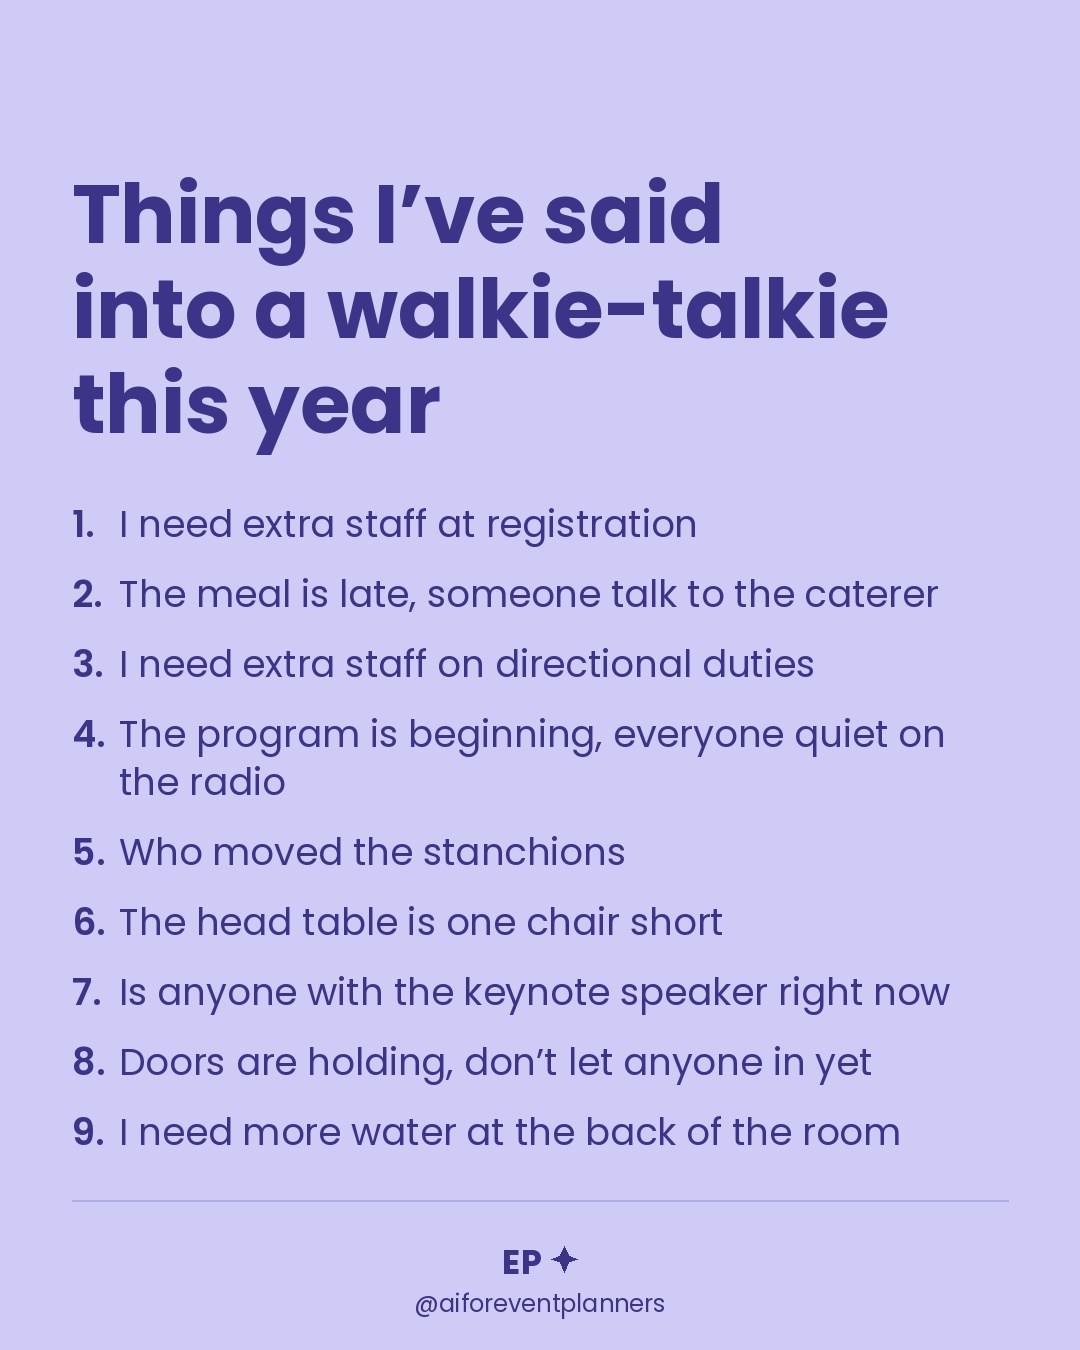
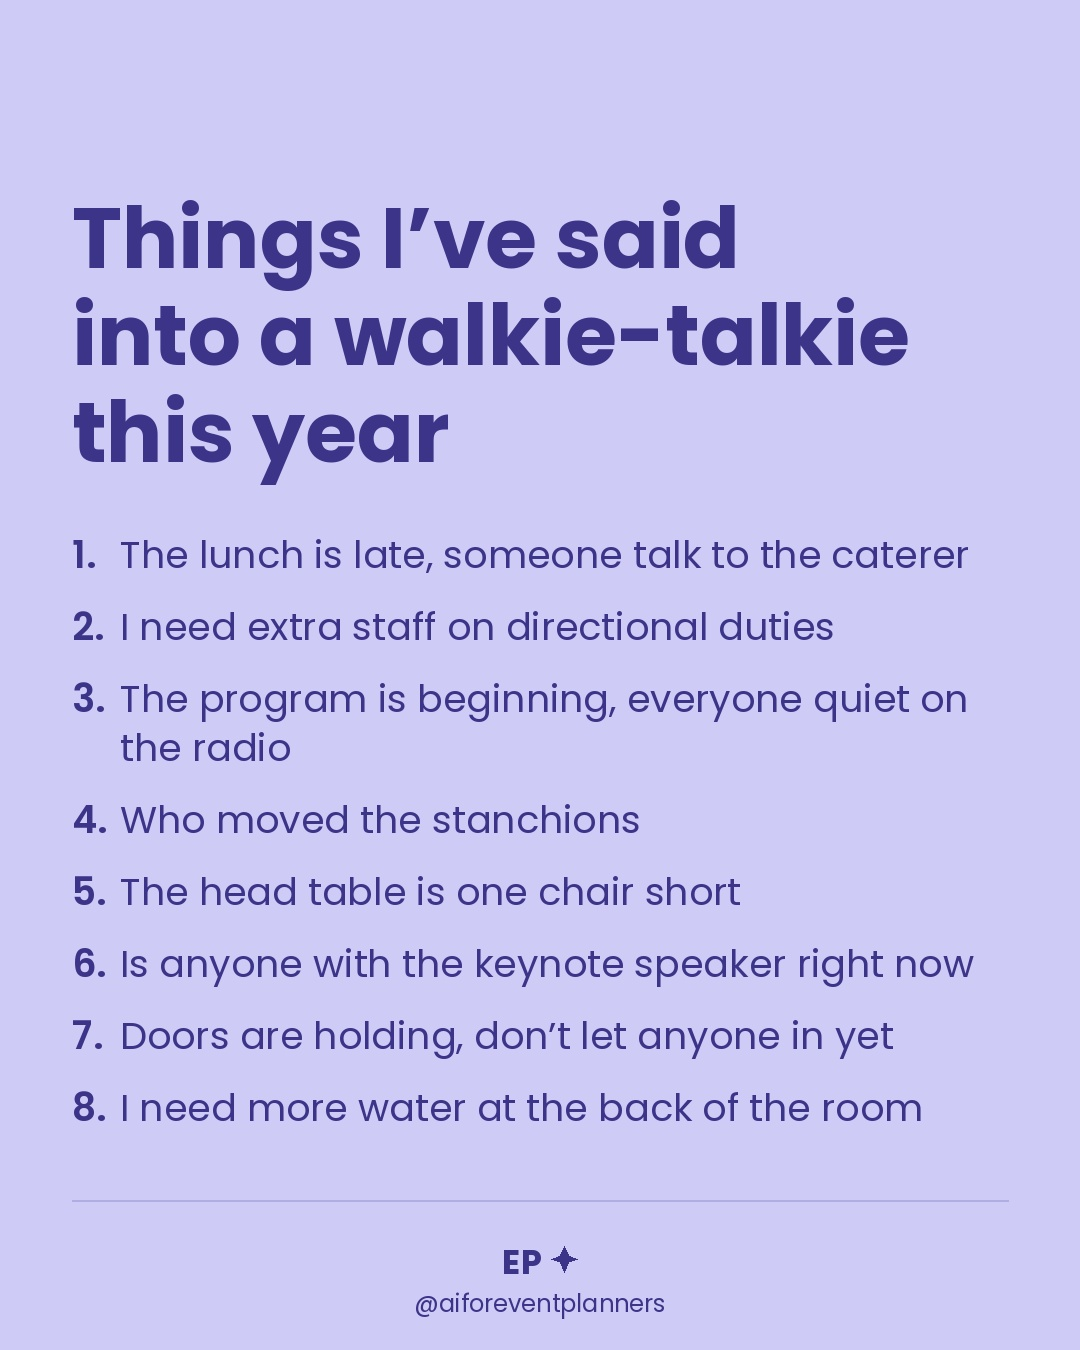
Sat 7 image: eight lines, her two edits
She cut her own registration line against the directional-duties one ("1 and
3 are too similar cut 1") and changed "the meal" to "the lunch". Both are her
calls, so the wording on the image is still hers throughout.

Eight lines rather than nine lets the title sit at 84px on both sizes; the
list now ends at y=1130 on the 1350 and y=1310 on the 1920, both inside the
same windows as before.

Claude-Session: https://claude.ai/code/session_01HKX4LcxS3og4W8QFWqNVPj

Changed region(s): [[0.0611, 0.1244, 0.8861, 0.8711]]

diff --git a/posts/2026-11-07-walkie-talkie/make_post.py b/posts/2026-11-07-walkie-talkie/make_post.py
@@ -6,9 +6,12 @@ as a numbered list.
 
 THE LINES ARE HERS. Four came from her verbatim on Nov 5; five more she picked
 from a list drafted here and approved ("1 - 4 and 6"), which makes them hers
-too. Nothing on this image was written and then assumed. Her own four keep her
-wording exactly — only the spelling of "registration" and "beginning" is
-fixed, because an overlay is set type rather than a radio call.
+too. Nothing on this image was written and then assumed. Her own lines keep
+her wording exactly, with two changes she made herself: the spelling of
+"beginning", and "the meal" to "the lunch".
+
+EIGHT, NOT NINE. She cut her own registration line against the directional
+one — "1 and 3 are too similar cut 1" — so the less obvious of the two stayed.
 
 No names, no venues, no clients, no employer: role and room only.
 
@@ -46,9 +49,11 @@ HANDLE = "@aiforeventplanners"
 TITLE = "Things I’ve said\ninto a walkie-talkie\nthis year"
 
 # Hers first, in the order she sent them, then the five she approved.
+# "I need extra staff at registration" was hers too and came out on her call:
+# "1 and 3 are too similar cut 1". Line 3 is the directional-duties one, which
+# makes the same point in a less obvious place, so it is the one that stayed.
 LINES = [
-    "I need extra staff at registration",
-    "The meal is late, someone talk to the caterer",
+    "The lunch is late, someone talk to the caterer",
     "I need extra staff on directional duties",
     "The program is beginning, everyone quiet on the radio",
     "Who moved the stanchions",
@@ -157,8 +162,8 @@ def build(H):
 
 
 def check():
-    assert len(LINES) == 9, "she approved nine lines"
-    assert len(set(LINES)) == 9, "a line is repeated"
+    assert len(LINES) == 8, "eight lines: she cut the registration one as too close to line 3"
+    assert len(set(LINES)) == 8, "a line is repeated"
     banned = ("hilton", "marriott", "convention center", "ballroom a")
     for ln in LINES:
         assert not any(b in ln.lower() for b in banned), f"named place in: {ln}"

diff --git a/posts/2026-11-07-walkie-talkie/README.md b/posts/2026-11-07-walkie-talkie/README.md
@@ -20,8 +20,13 @@ hers as well — the guide's "use her lines exactly; never invent one" is about
 not putting words in her mouth, and an approved line is not an invented one.
 Nothing on this image went on unasked.
 
-Her own four keep her wording exactly. The only change is the spelling of
-*registration* and *beginning*: an overlay is set type, not a radio call.
+**Eight, not nine.** She cut one of her own on sight: "1 and 3 are too similar
+cut 1", so *I need extra staff at registration* came out and the
+directional-duties one stayed, which makes the same point somewhere less
+obvious.
+
+Her wording is exact, with two changes she made herself: the spelling of
+*beginning*, and *the meal* to *the lunch*.
 
 Order is hers first, in the order she sent them, then the five she picked.
 
@@ -41,14 +46,14 @@ downward until the whole block fits the window, and the window differs:
 
 | | Window | Result |
 | --- | --- | --- |
-| 1350 | y 150 to 1160 | title 82px, list ends y=1154 |
-| 1920 | y 254 to 1416 — TikTok's top 12% and bottom 25% | title 84px, list ends y=1346 |
+| 1350 | y 150 to 1160 | title 84px, list ends y=1130 |
+| 1920 | y 254 to 1416 — TikTok's top 12% and bottom 25% | title 84px, list ends y=1310 |
 
 So nothing important sits under TikTok's caption or its right-hand buttons,
 and the wordmark on the 1920 sits above the bottom 25% rather than inside it.
 
 A wrapped line hangs on the number's column instead of returning to the
-margin, which is why line 4 reads as one item rather than two.
+margin, which is why line 3 reads as one item rather than two.
 
 ## Caption
 
